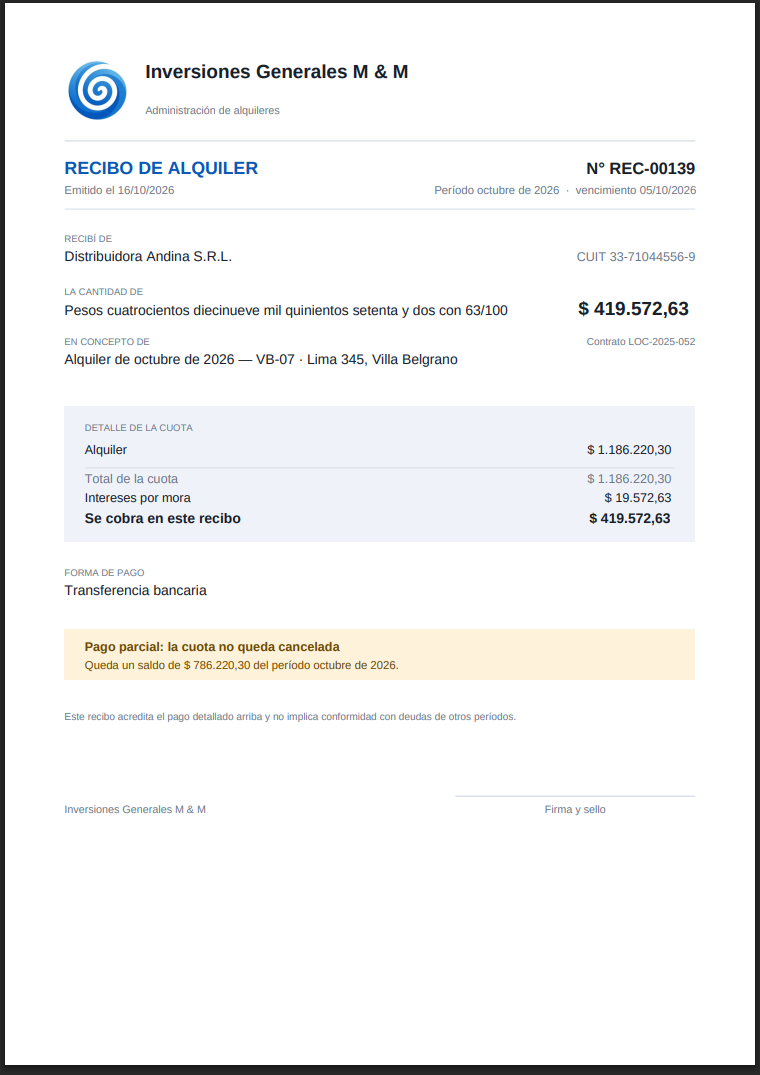
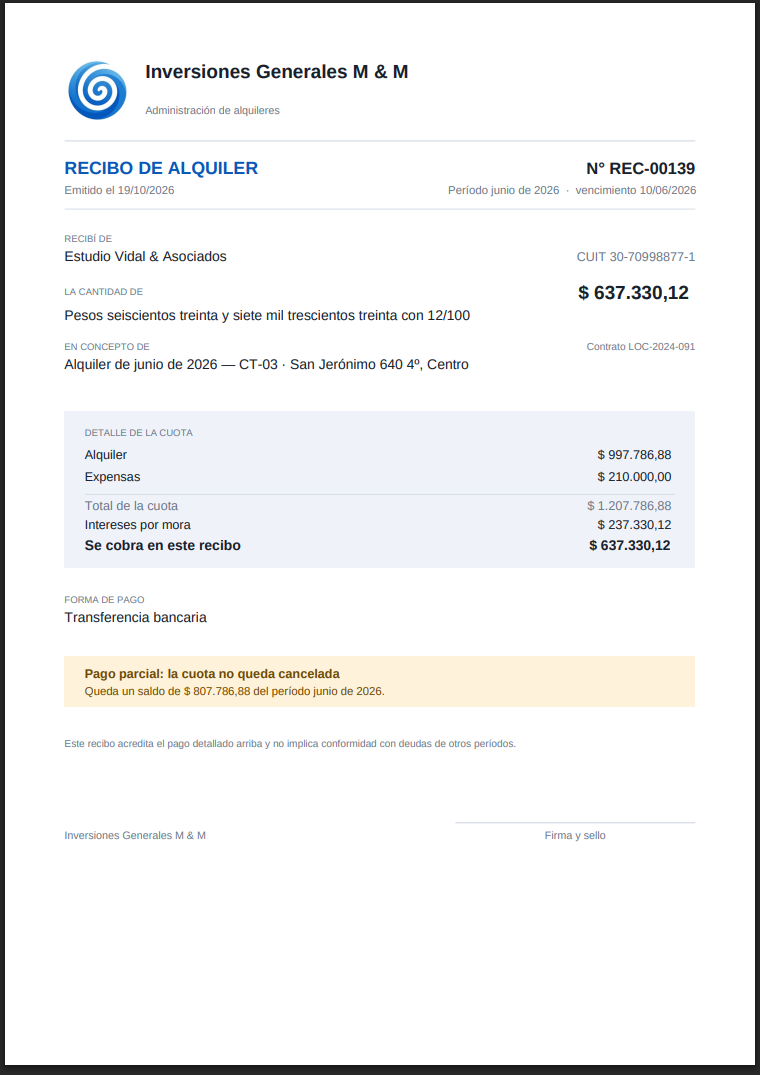
No dejar cobrar un período si debe los anteriores
Tenías razón, y el motivo es más fuerte de lo que parece: el artículo
899 inc. b del Código Civil y Comercial presume, salvo prueba en
contrario, que si se da recibo por un período los anteriores están
cancelados. Dar el recibo de noviembre con octubre impago es, en los
hechos, regalar octubre.

Entonces al cobrar una cuota que tiene períodos anteriores impagos del
mismo contrato, la app frena: el botón queda deshabilitado, se muestra
cuánto y de qué meses se adeuda, y se ofrece ir a cobrar el más viejo
de un clic, sin cerrar y volver a buscarlo.

Frenar sin salida sería peor que no frenar: hay casos legítimos —un
plan de pago, un período en discusión— en los que se cobra igual. Se
puede tildando una casilla, y entonces el recibo sale con la reserva
del artículo 898, nombrando los períodos impagos y aclarando que este
recibo no los cancela ni implica conformidad con ellos. Los períodos
adeudados se guardan en el pago y no se recalculan, porque el recibo
tiene que decir lo que decía el día que se entregó aunque el inquilino
después se ponga al día; así la reimpresión sigue dando el mismo
archivo.

La regla es por contrato: un inquilino con dos unidades tiene dos
deudas distintas.

De paso, un defecto que se veía en el PDF: con importes de más de un
millón, el monto en letras se pisaba con el número. Ahora las letras
van en su propio renglón y a todo el ancho, partidas en dos si hiciera
falta.

La verificación de humo sube a 43: que el cobro quede bloqueado, que
[…]

diff --git a/src/components/PagoModal.tsx b/src/components/PagoModal.tsx
@@ -2,9 +2,16 @@ import { useState } from 'react';
 import { Campo, Modal, Nota } from './ui';
 import { emitirRecibo } from '../data/recibos';
 import { useApp, useDb } from '../data/store';
-import { punitoriosDeCuota, saldoDeCuota } from '../domain/cobranzas';
+import { cuotasAdeudadasAntes, punitoriosDeCuota, saldoDeCuota } from '../domain/cobranzas';
 import type { Cuota, MedioPago } from '../domain/types';
-import { formatearFecha, formatearMoneda, formatearPeriodo, hoy, plural } from '../domain/util';
+import {
+  formatearFecha,
+  formatearMoneda,
+  formatearPeriodo,
+  hoy,
+  plural,
+  sumar,
+} from '../domain/util';
 
 const MEDIOS: { id: MedioPago; texto: string }[] = [
   { id: 'transferencia', texto: 'Transferencia' },
@@ -14,7 +21,16 @@ const MEDIOS: { id: MedioPago; texto: string }[] = [
 ];
 
 /** Alta de cobranza sobre una cuota, con los punitorios ya calculados. */
-export function PagoModal({ cuota, onCerrar }: { cuota: Cuota; onCerrar: () => void }) {
+export function PagoModal({
+  cuota,
+  onCerrar,
+  onIrACuota,
+}: {
+  cuota: Cuota;
+  onCerrar: () => void;
+  /** Para saltar a cobrar la cuota más vieja sin cerrar y volver a buscarla. */
+  onIrACuota?: (c: Cuota) => void;
+}) {
   const db = useDb();
   const registrar = useApp((e) => e.registrarPago);
 
@@ -32,6 +48,14 @@ export function PagoModal({ cuota, onCerrar }: { cuota: Cuota; onCerrar: () => v
   const [medio, setMedio] = useState<MedioPago>('transferencia');
   const [comprobante, setComprobante] = useState('');
   const [emitiendo, setEmitiendo] = useState(false);
+  const [saltearOrden, setSaltearOrden] = useState(false);
+
+  // Cobrar un período dejando otro anterior impago hace presumir que el
+  // anterior está pagado (art. 899 inc. b CCyC). Se frena, y si se hace
+  // igual el recibo sale con la reserva.
+  const atrasadas = cuotasAdeudadasAntes(cuota, db.cuotas, db.pagos);
+  const deudaAnterior = sumar(atrasadas, (c) => saldoDeCuota(c, db.pagos));
+  const frenado = atrasadas.length > 0 && !saltearOrden;
 
   const montoNum = Number(monto) || 0;
   const punitoriosNum = Number(punitorios) || 0;
@@ -48,7 +72,7 @@ export function PagoModal({ cuota, onCerrar }: { cuota: Cuota; onCerrar: () => v
           <button className="btn btn--fantasma" onClick={onCerrar}>Cancelar</button>
           <button
             className="btn btn--primario"
-            disabled={montoNum <= 0 || emitiendo}
+            disabled={montoNum <= 0 || emitiendo || frenado}
             onClick={async () => {
               setEmitiendo(true);
               const pago = registrar({
@@ -59,6 +83,9 @@ export function PagoModal({ cuota, onCerrar }: { cuota: Cuota; onCerrar: () => v
                 medio,
                 comprobante: comprobante || undefined,
                 punitorios: punitoriosNum || undefined,
+                periodosAdeudados: atrasadas.length
+                  ? atrasadas.map((c) => c.periodo)
+                  : undefined,
               });
               // El cobro ya quedó guardado; el recibo se arma sobre la base
               // recién mutada, así sale con este pago adentro.
@@ -71,6 +98,35 @@ export function PagoModal({ cuota, onCerrar }: { cuota: Cuota; onCerrar: () => v
         </>
       }
     >
+      {atrasadas.length > 0 && (
+        <Nota tono="critico" titulo={`Antes debe ${plural(atrasadas.length, 'período', 'períodos')}`}>
+          <span>
+            Adeuda {formatearMoneda(deudaAnterior, cuota.moneda)} de{' '}
+            {atrasadas.map((c) => formatearPeriodo(c.periodo, true)).join(', ')}. Dar el recibo de{' '}
+            {formatearPeriodo(cuota.periodo, true)} hace presumir que esos períodos están pagados
+            (art. 899 inc. b del Código Civil y Comercial).
+          </span>
+          {onIrACuota && (
+            <div className="fila" style={{ marginTop: 10 }}>
+              <button className="btn btn--chico" onClick={() => onIrACuota(atrasadas[0])}>
+                Cobrar {formatearPeriodo(atrasadas[0].periodo, true)} primero
+              </button>
+            </div>
+          )}
+          <label className="fila" style={{ gap: 8, marginTop: 10, cursor: 'pointer' }}>
+            <input
+              type="checkbox"
+              checked={saltearOrden}
+              onChange={(e) => setSaltearOrden(e.target.checked)}
+            />
+            <span>
+              Cobrar {formatearPeriodo(cuota.periodo, true)} igual. El recibo va a dejar constancia
+              de la deuda anterior.
+            </span>
+          </label>
+        </Nota>
+      )}
+
       <Nota tono={diasMora > 0 ? 'alerta' : 'neutro'}>
         <strong>
           Saldo de la cuota: {formatearMoneda(saldo, cuota.moneda)}

diff --git a/src/domain/recibo.ts b/src/domain/recibo.ts
@@ -54,6 +54,22 @@ function recortar(texto: string, ancho: number, tam: number, negrita = false): s
   return `${corte}…`;
 }
 
+/** Parte el texto en renglones que entren en el ancho dado. */
+function envolver(texto: string, ancho: number, tam: number): string[] {
+  const lineas: string[] = [];
+  let actual = '';
+  for (const palabra of texto.split(' ')) {
+    const tentativa = actual ? `${actual} ${palabra}` : palabra;
+    if (anchoTexto(tentativa, tam) <= ancho || !actual) actual = tentativa;
+    else {
+      lineas.push(actual);
+      actual = palabra;
+    }
+  }
+  if (actual) lineas.push(actual);
+  return lineas;
+}
+
 /** Un dato con su etiqueta arriba, que es como se leen los formularios. */
 function campo(doc: Documento, etiqueta: string, valor: string, x: number, y: number, ancho: number): void {
   doc.texto(etiqueta.toUpperCase(), x, y, { tam: 7.5, color: TENUE });
@@ -108,16 +124,26 @@ export function construirRecibo(d: DatosRecibo): Uint8Array {
 
   y += 42;
   doc.texto('LA CANTIDAD DE', MARGEN, y, { tam: 7.5, color: TENUE });
-  const enLetras = montoEnLetras(total, cuota.moneda);
-  doc.texto(
-    recortar(enLetras.charAt(0).toUpperCase() + enLetras.slice(1), DERECHA - MARGEN, 11),
-    MARGEN,
-    y + 16,
-    { tam: 11, color: TINTA },
-  );
-  doc.texto(formatearMoneda(total, cuota.moneda), DERECHA, y + 16, { tam: 15, negrita: true, color: TINTA, alinear: 'der' });
+  doc.texto(formatearMoneda(total, cuota.moneda), DERECHA, y + 3, {
+    tam: 15, negrita: true, color: TINTA, alinear: 'der',
+  });
 
-  y += 40;
+  // El importe en letras va en su propio renglón y a todo el ancho: al lado
+  // del número se pisaban apenas el monto pasaba el millón. Si no entra en
+  // uno, se parte en dos, que alcanza para cualquier importe real.
+  const enLetras = montoEnLetras(total, cuota.moneda);
+  const renglones = envolver(
+    enLetras.charAt(0).toUpperCase() + enLetras.slice(1),
+    DERECHA - MARGEN,
+    11,
+  );
+  let yLetras = y + 20;
+  for (const renglon of renglones.slice(0, 2)) {
+    doc.texto(renglon, MARGEN, yLetras, { tam: 11, color: TINTA });
+    yLetras += 14;
+  }
+
+  y = yLetras + 10;
   campo(
     doc,
     'En concepto de',
@@ -167,6 +193,31 @@ export function construirRecibo(d: DatosRecibo): Uint8Array {
   if (pago.comprobante) campo(doc, 'Comprobante', pago.comprobante, MARGEN + 260, y, 240);
 
   y += 42;
+
+  // Reserva del art. 898 CCyC. Sin esto, dar recibo por un período hace
+  // presumir que los anteriores están pagados (art. 899 inc. b).
+  const adeudados = pago.periodosAdeudados ?? [];
+  if (adeudados.length > 0) {
+    const alto = 54;
+    doc.rect(MARGEN, y, DERECHA - MARGEN, alto, AVISO);
+    doc.texto('Se deja constancia de que quedan períodos anteriores impagos', MARGEN + 16, y + 17, {
+      tam: 10, negrita: true, color: AVISO_TINTA,
+    });
+    doc.texto(
+      recortar(
+        adeudados.map((p) => formatearPeriodoLargo(p)).join(' · '),
+        DERECHA - MARGEN - 32,
+        9,
+      ),
+      MARGEN + 16, y + 31, { tam: 9, color: AVISO_TINTA },
+    );
+    doc.texto(
+      'Este recibo no cancela esos períodos ni implica conformidad con ellos.',
+      MARGEN + 16, y + 44, { tam: 8.5, color: AVISO_TINTA },
+    );
+    y += alto + 16;
+  }
+
   if (d.saldoPosterior > 0.01) {
     doc.rect(MARGEN, y, DERECHA - MARGEN, 40, AVISO);
     doc.texto('Pago parcial: la cuota no queda cancelada', MARGEN + 16, y + 17, {

diff --git a/src/domain/cobranzas.ts b/src/domain/cobranzas.ts
@@ -109,6 +109,30 @@ export function numerarRecibos(pagos: Pago[]): Pago[] {
   return pagos.map((p) => (p.recibo ? p : { ...p, recibo: numeros.get(p.id) }));
 }
 
+/**
+ * Las cuotas anteriores del mismo contrato que todavía deben algo.
+ *
+ * Importa por una razón concreta: el artículo 899 inc. b) del Código Civil y
+ * Comercial presume que, si se da recibo por un período, los anteriores están
+ * cancelados. Dar el recibo de noviembre con octubre impago es, salvo prueba
+ * en contrario, regalar octubre. Por eso la app frena el cobro, y si igual se
+ * cobra, el recibo sale con la reserva del artículo 898 nombrando lo que se
+ * adeuda.
+ *
+ * Es por contrato: un inquilino con dos unidades tiene dos deudas distintas.
+ */
+export function cuotasAdeudadasAntes(cuota: Cuota, cuotas: Cuota[], pagos: Pago[]): Cuota[] {
+  return cuotas
+    .filter(
+      (c) =>
+        c.contratoId === cuota.contratoId &&
+        c.periodo < cuota.periodo &&
+        c.estado !== 'anulada' &&
+        saldoDeCuota(c, pagos) > 0.01,
+    )
+    .sort((a, b) => a.periodo.localeCompare(b.periodo));
+}
+
 /** Orden estable de los pagos de una cuota: por fecha y, a igual fecha, por id. */
 export function pagosOrdenados(pagos: Pago[], cuotaId: string): Pago[] {
   return pagosDeCuota(pagos, cuotaId).sort(

diff --git a/src/domain/types.ts b/src/domain/types.ts
@@ -176,6 +176,12 @@ export interface Pago {
   recibo?: string;
   /** Referencia de la transferencia o del comprobante que trajo el inquilino. */
   comprobante?: string;
+  /**
+   * Períodos anteriores que estaban impagos al cobrar este. Se guarda, no se
+   * recalcula: el recibo tiene que decir lo que decía el día que se entregó,
+   * aunque después el inquilino se ponga al día.
+   */
+  periodosAdeudados?: Periodo[];
   /** Punitorios incluidos en este pago. */
   punitorios?: number;
   notas?: string;

diff --git a/src/pages/ContratoDetalle.tsx b/src/pages/ContratoDetalle.tsx
@@ -450,7 +450,13 @@ export default function ContratoDetalle() {
         />
       )}
 
-      {cobrando && <PagoModal cuota={cobrando} onCerrar={() => setCobrando(null)} />}
+      {cobrando && (
+        <PagoModal
+          cuota={cobrando}
+          onCerrar={() => setCobrando(null)}
+          onIrACuota={setCobrando}
+        />
+      )}
       {recibosDe && <RecibosModal cuota={recibosDe} onCerrar={() => setRecibosDe(null)} />}
 
       {novedadAbierta && (

diff --git a/src/pages/Cobranzas.tsx b/src/pages/Cobranzas.tsx
@@ -267,7 +267,13 @@ export default function Cobranzas() {
         </Panel>
       </div>
 
-      {cobrando && <PagoModal cuota={cobrando} onCerrar={() => setCobrando(null)} />}
+      {cobrando && (
+        <PagoModal
+          cuota={cobrando}
+          onCerrar={() => setCobrando(null)}
+          onIrACuota={setCobrando}
+        />
+      )}
     </>
   );
 }

diff --git a/README.md b/README.md
@@ -57,7 +57,7 @@ pipeline viejo pisa el deploy y sirve la página en blanco.
 | Pantalla | Para qué |
 |---|---|
 | **Inicio** | Cuánto se cobró del mes, quién debe, qué contratos ajustan o vencen, qué unidades están vacías |
-| **Cobranzas** | La cuota de cada inquilino del mes, con el botón de cobrar, los punitorios ya calculados y el recibo en PDF |
+| **Cobranzas** | La cuota de cada inquilino del mes, con el botón de cobrar, los punitorios ya calculados y el recibo en PDF. No deja cobrar un mes si debe los anteriores |
 | **Contratos** | Alta, cronograma de actualizaciones, cuotas con sus recibos, el legajo de archivos y la bitácora |
 | **Propiedades** | La cartera, con su estado y el alquiler vigente |
 | **Liquidaciones** | Lo que hay que transferirle a cada propietario: cobrado menos honorarios menos gastos |
@@ -118,6 +118,23 @@ de la transferencia que trae el inquilino.
 Un recibo por un pago parcial que no aclara el saldo parece cancelar la cuota
 entera, así que cuando queda algo sin pagar el PDF lo dice en un recuadro, con
 el monto y el período.
+
+**No se cobra un mes si debe los anteriores.** El artículo 899 inc. b del
+Código Civil y Comercial presume, salvo prueba en contrario, que si se da
+recibo por un período **los anteriores están cancelados**. Dar el recibo de
+noviembre con octubre impago es, en los hechos, regalar octubre. Así que la
+app frena el cobro, dice cuánto y de qué meses se adeuda, y ofrece ir a
+cobrar el más viejo de un clic.
+
+Frenar sin salida sería peor: hay casos legítimos —un plan de pago, un
+período en discusión— en los que se cobra igual. Se puede, tildando una
+casilla, y entonces el recibo sale con la reserva del artículo 898 nombrando
+los períodos impagos y aclarando que no quedan cancelados. Esos períodos se
+guardan en el pago, no se recalculan: el recibo tiene que decir lo que decía
+el día que se entregó, aunque el inquilino después se ponga al día.
+
+La regla es **por contrato**: un inquilino con dos unidades tiene dos deudas
+distintas.
 
 **El PDF se escribe a mano, sin librería.** `domain/pdf.ts` son 250 líneas que
 hacen lo que un recibo necesita: una hoja A4, las tipografías base que todo
